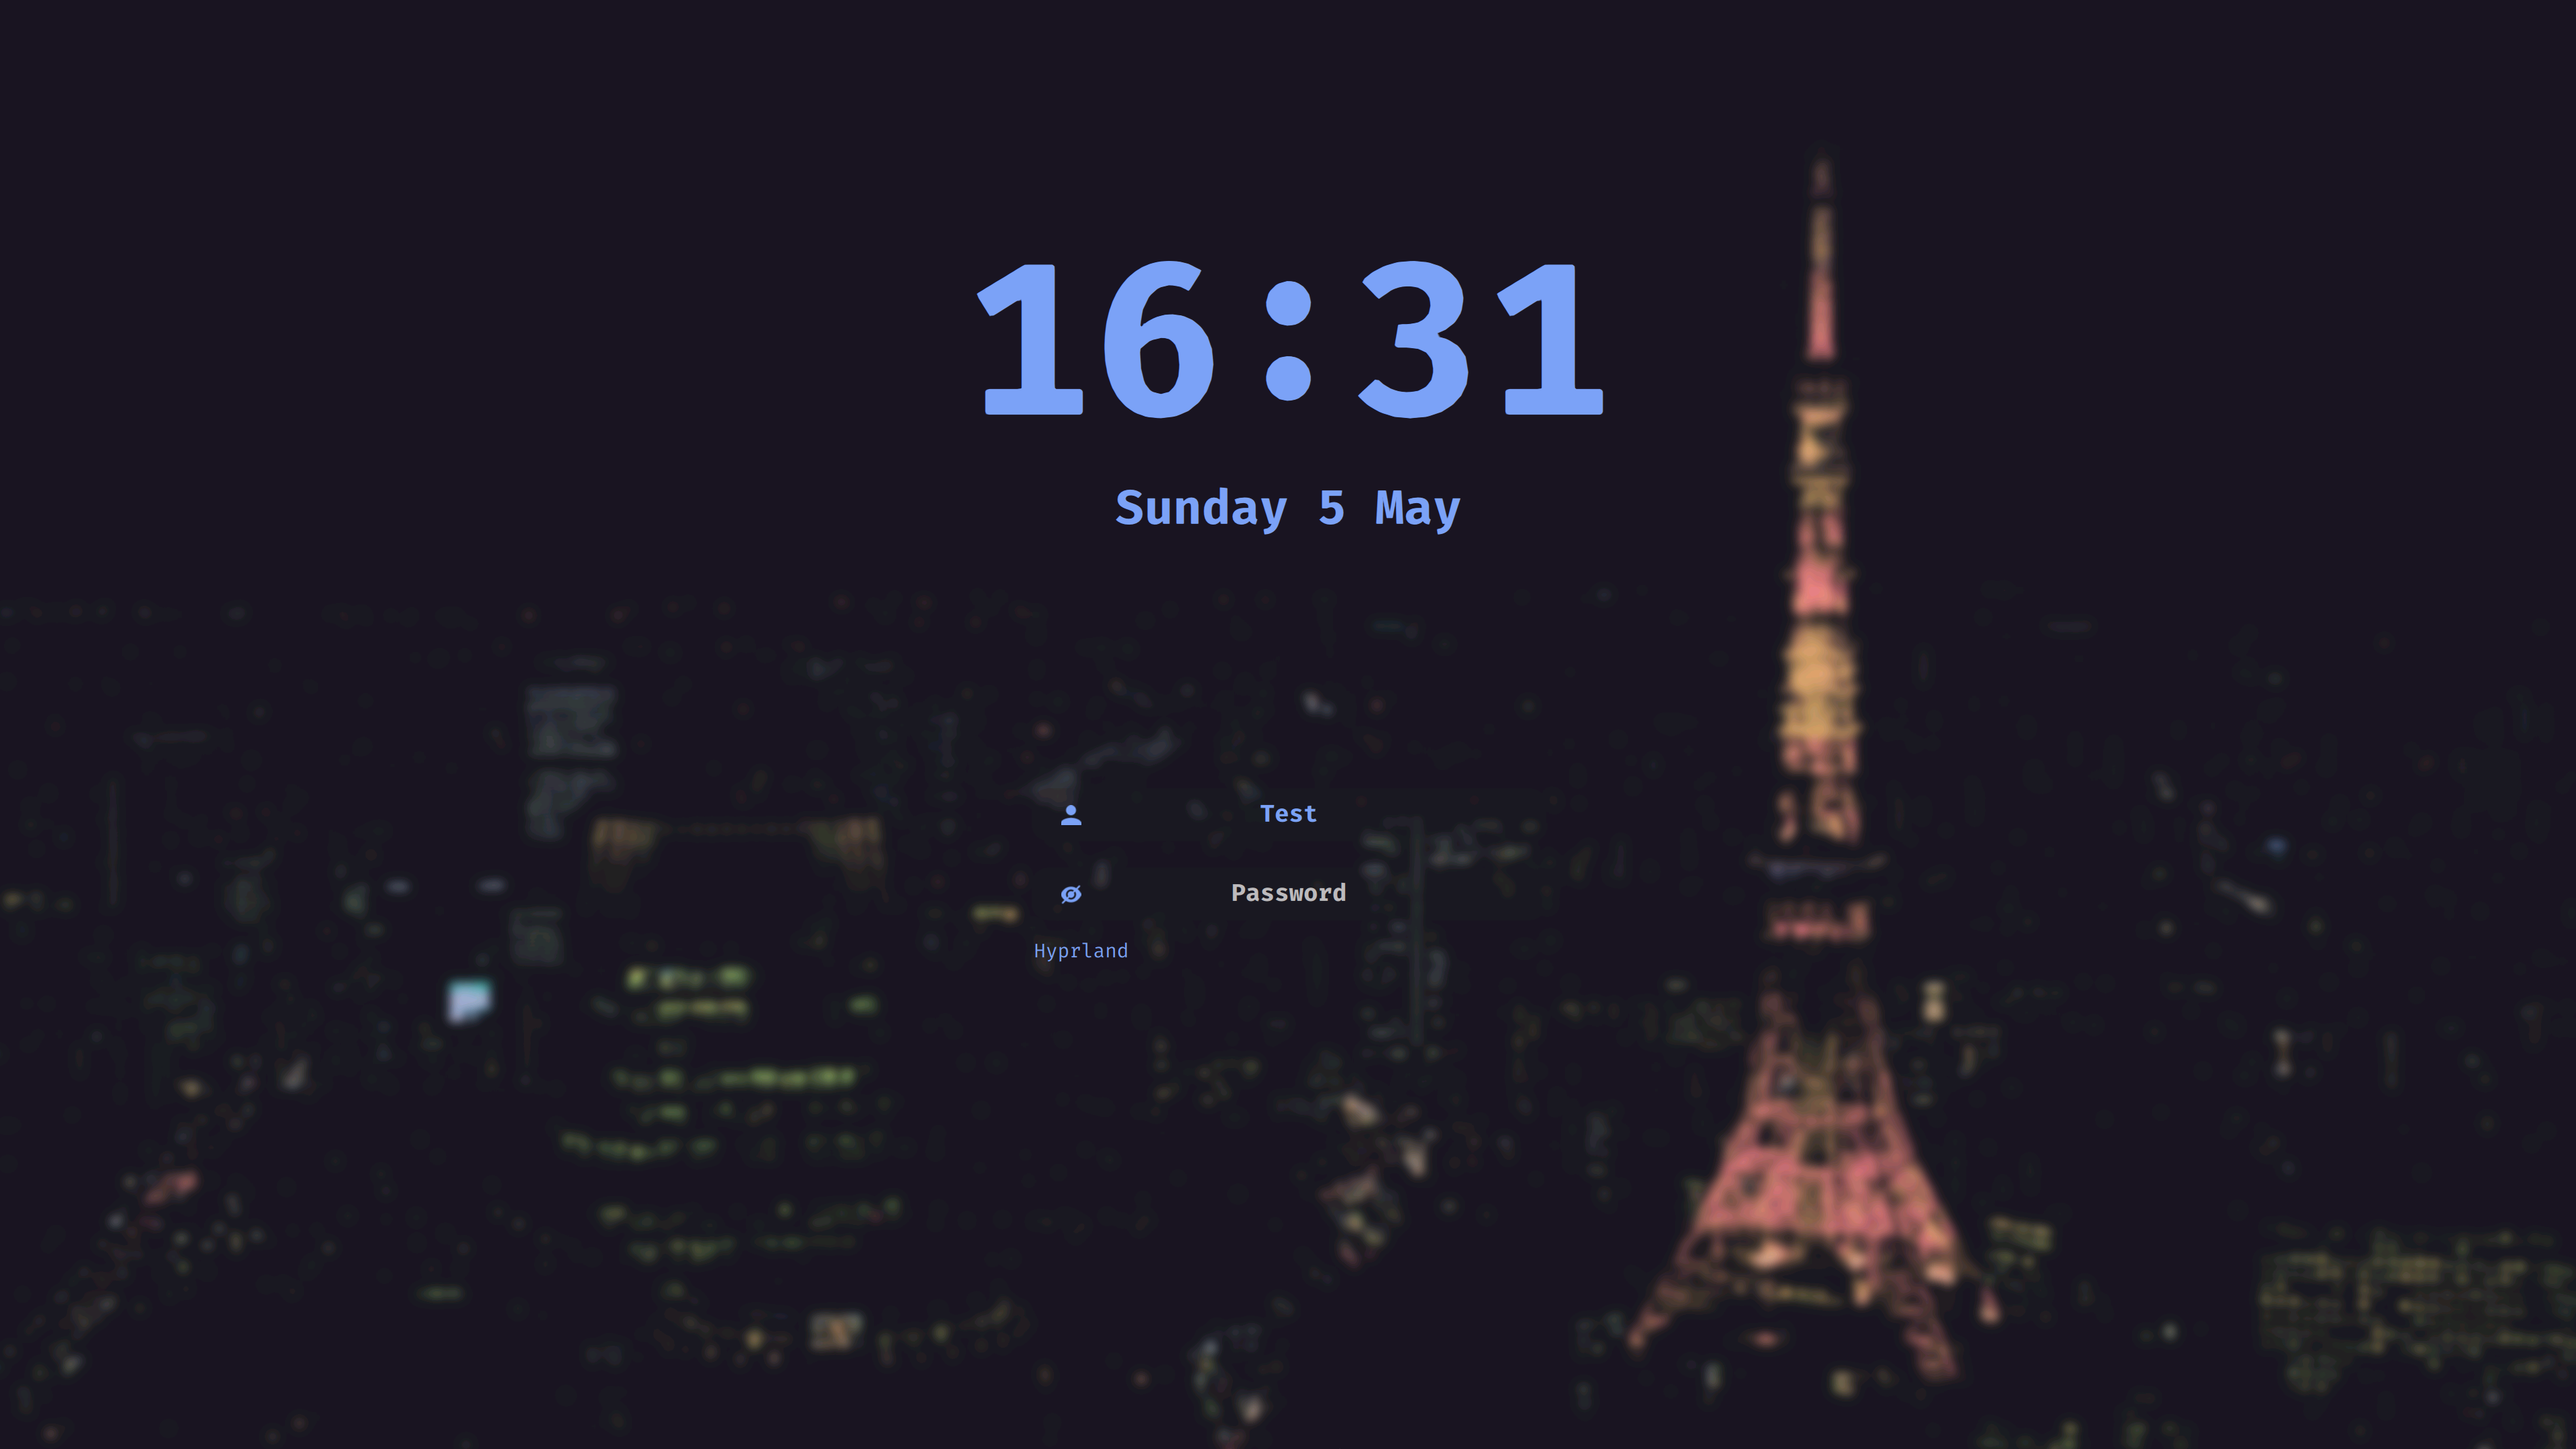
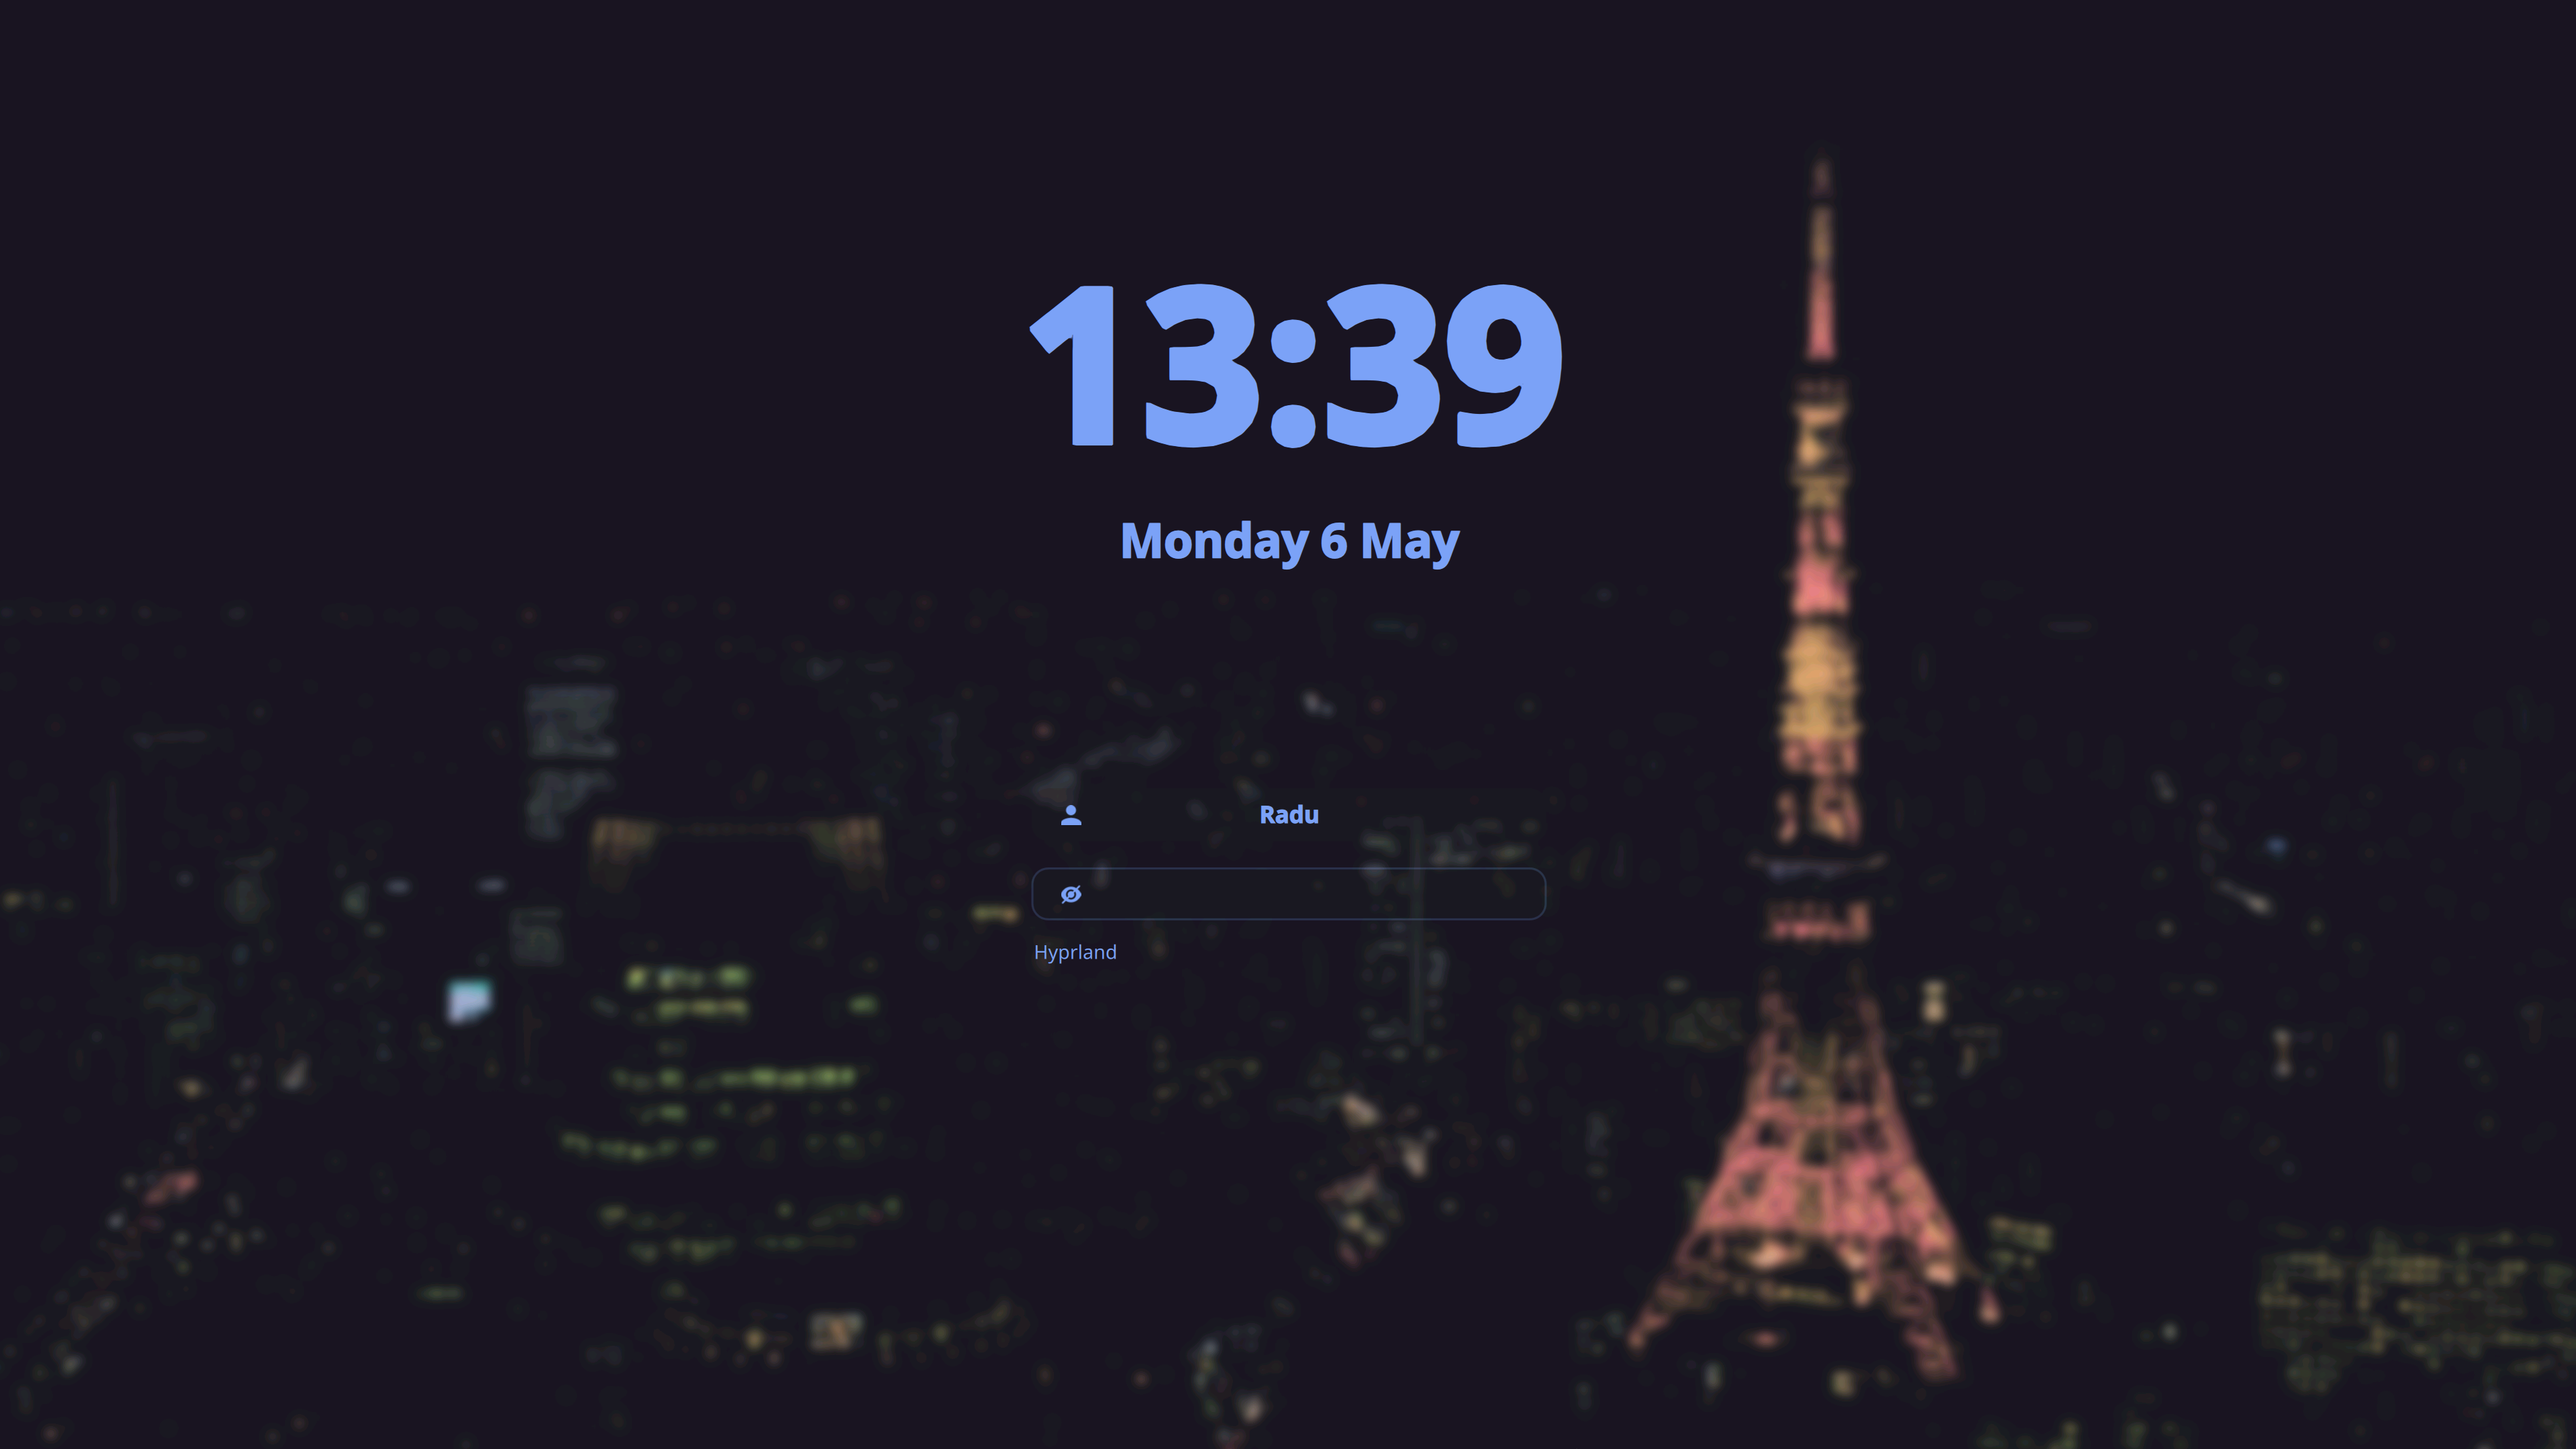
Update font used to JetBrainsMono Nerd Font; update preview

diff --git a/README.md b/README.md
@@ -3,7 +3,7 @@
 A theme for the [SDDM login manager](https://github.com/sddm/sddm).
 
 - Screen resolution: 3840x2160
-- Font: Fira Code Nerd Font
+- Font: JetBrainsMono Nerd Font
 
 ### Preview
 
